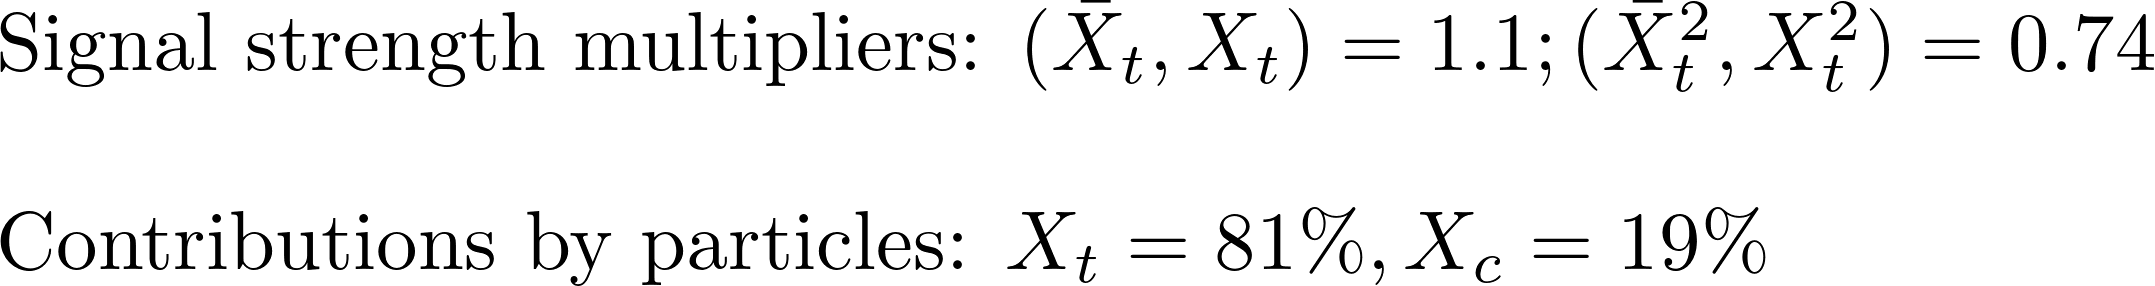
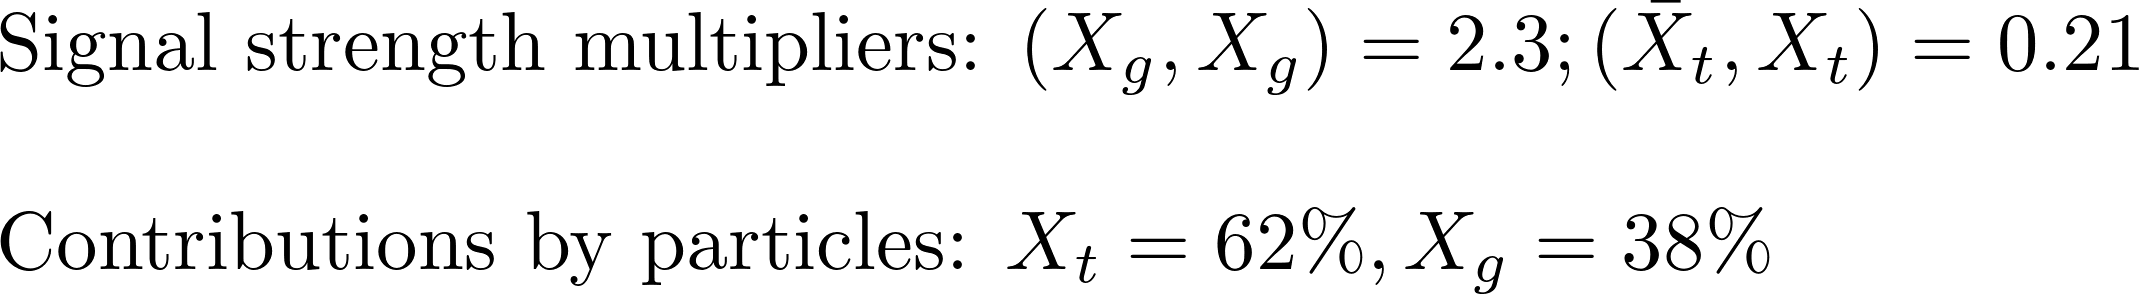
automated update by plotHiscore.py

Changed region(s): [[0.0, 0.0, 1.0, 0.3357], [0.0, 0.6993, 0.8331, 1.0], [0.0, 0.028, 0.0309, 0.0839]]

diff --git a/protomodels/latest/index.html b/protomodels/latest/index.html
@@ -1,32 +1,32 @@
 <html>
 <body>
 <center>
-<table><td><h1>Current best protomodel: K=6.46</h1><td><img height=60px src=https://smodels.github.io/pics/banner.png></table>
+<table><td><h1>Current best protomodel: K=6.18</h1><td><img height=60px src=https://smodels.github.io/pics/banner.png></table>
 </center>
-<b><a href=./hiscore.slha>ProtoModel</a> <a href=./pmodel.py>(dict)</a> produced with <a href=https://smodels.github.io/docs/Validation123fake25>database v1.2.3fake25</a>, combination strategy <a href=./matrix_aggressive.png>aggressive</a> in walker 111 step 21.</b> K plots for: <a href=./M1000022.png?5003279>X<sub>Z</sub><sup>1</sup></a>, <a href=./M1000004.png?5003279>X<sub>c</sub></a>, <a href=./M1000006.png?5003279>X<sub>t</sub></a>. HPD plots for: <a href=./llhd1000004.png?5003279>X<sub>c</sub></a>, <a href=./llhd1000006.png?5003279>X<sub>t</sub></a>. SSM plots for: <a href=./ssm_-2000006_2000006.png?5003279>(x&#772;<sub>t</sub><sup>2</sup>,X<sub>t</sub><sup>2</sup>)</a>, <a href=./ssm_-1000006_1000006.png?5003279>(x&#772;<sub>t</sub>,X<sub>t</sub>)</a><br>
+<b><a href=./hiscore.slha>ProtoModel</a> <a href=./pmodel.py>(dict)</a> produced with <a href=https://smodels.github.io/docs/Validation123fake23>database v1.2.3fake23</a>, combination strategy <a href=./matrix_aggressive.png>aggressive</a> in walker 139 step 82.</b> K plots for: <a href=./M1000022.png?5004096>X<sub>Z</sub><sup>1</sup></a>, <a href=./M1000021.png?5004096>X<sub>g</sub></a>, <a href=./M1000006.png?5004096>X<sub>t</sub></a>. HPD plots for: <a href=./llhd1000021.png?5004096>X<sub>g</sub></a>, <a href=./llhd1000006.png?5004096>X<sub>t</sub></a>. SSM plots for: <a href=./ssm_1000021_1000021.png?5004096>(X<sub>g</sub>,X<sub>g</sub>)</a>, <a href=./ssm_-1000006_1000006.png?5004096>(x&#772;<sub>t</sub>,X<sub>t</sub>)</a><br>
 <table width=80%>
 <tr><td>
-<br><b>35 predictions available. Highest r values are:</b><br><ul>
-<li><a href=http://cms-results.web.cern.ch/cms-results/public-results/publications/SUS-19-006/index.html>CMS-SUS-19-006</a>:T2tt r=1.05, r<sub>exp</sub>=N/A<br>
-<li><a href=https://atlas.web.cern.ch/Atlas/GROUPS/PHYSICS/PAPERS/SUSY-2016-15/>ATLAS-SUSY-2016-15</a>:T2tt r=0.83, r<sub>exp</sub>=N/A<br>
-<li><a href=http://cms-results.web.cern.ch/cms-results/public-results/publications/SUS-16-049/index.html>CMS-SUS-16-049</a>:T2tt r=0.76, r<sub>exp</sub>=N/A<br>
-<li><a href=http://cms-results.web.cern.ch/cms-results/public-results/publications/SUS-16-050/index.html>CMS-SUS-16-050</a>:T2tt r=0.76, r<sub>exp</sub>=N/A<br>
-<li><a href=http://cms-results.web.cern.ch/cms-results/public-results/publications/SUS-19-006/index.html>CMS-SUS-19-006</a>:T2tt r=0.67, r<sub>exp</sub>=N/A<br>
+<br><b>47 predictions available. Highest r values are:</b><br><ul>
+<li><a href=http://cms-results.web.cern.ch/cms-results/public-results/publications/SUS-16-050/index.html>CMS-SUS-16-050</a>:T2tt r=0.83, r<sub>exp</sub>=N/A<br>
+<li><a href=http://cms-results.web.cern.ch/cms-results/public-results/publications/SUS-19-006/index.html>CMS-SUS-19-006</a>:T2tt r=0.77, r<sub>exp</sub>=N/A<br>
+<li><a href=http://cms-results.web.cern.ch/cms-results/public-results/publications/SUS-19-006/index.html>CMS-SUS-19-006</a>:T1bbbb r=0.71, r<sub>exp</sub>=N/A<br>
+<li><a href=http://cms-results.web.cern.ch/cms-results/public-results/publications/SUS-16-049/index.html>CMS-SUS-16-049</a>:T2tt r=0.70, r<sub>exp</sub>=N/A<br>
+<li><a href=http://cms-results.web.cern.ch/cms-results/public-results/publications/SUS-16-050/index.html>CMS-SUS-16-050</a>:T5tttt r=0.63, r<sub>exp</sub>=N/A<br>
 </ul>
 <td><br><b>Contributions per analysis:</b><br>
 <ul>
-<li> <a href=http://cms-results.web.cern.ch/cms-results/public-results/publications/SUS-16-051/index.html>CMS-SUS-16-051</a>: 49%
-<li> <a href=https://atlas.web.cern.ch/Atlas/GROUPS/PHYSICS/PAPERS/SUSY-2016-16/>ATLAS-SUSY-2016-16</a>: 47%
-<li> <a href=>CMS-SUS-19-006</a>: 6%
-<li> <a href=https://atlas.web.cern.ch/Atlas/GROUPS/PHYSICS/CONFNOTES/ATLAS-CONF-2013-037/>ATLAS-CONF-2013-037</a>: 3%
-<li> <a href=>ATLAS-SUSY-2013-02</a>: 0%
-<li> <a href=>ATLAS-SUSY-2015-06</a>: -1%
-<li> <a href=https://twiki.cern.ch/twiki/bin/view/CMSPublic/PhysicsResultsSUS13012>CMS-SUS-13-012</a>: -4%
-<td><img width=600px src=./texdoc.png?1598003279>
-<br><font size=-1>Last updated: Fri Aug 21 11:47:59 2020</font>
+<li> <a href=https://atlas.web.cern.ch/Atlas/GROUPS/PHYSICS/PAPERS/SUSY-2016-16/>ATLAS-SUSY-2016-16</a>: 17%
+<li> <a href=https://atlas.web.cern.ch/Atlas/GROUPS/PHYSICS/CONFNOTES/ATLAS-CONF-2013-047/>ATLAS-CONF-2013-047</a>: 14%
+<li> <a href=http://cms-results.web.cern.ch/cms-results/public-results/publications/SUS-16-050/index.html>CMS-SUS-16-050</a>: 14%
+<li> <a href=https://twiki.cern.ch/twiki/bin/view/CMSPublic/PhysicsResultsSUS12028>CMS-SUS-12-028</a>: 14%
+<li> <a href=https://atlas.web.cern.ch/Atlas/GROUPS/PHYSICS/PAPERS/SUSY-2016-07/>ATLAS-SUSY-2016-07</a>: 14%
+<li> <a href=http://cms-results.web.cern.ch/cms-results/public-results/publications/SUS-16-051/index.html>CMS-SUS-16-051</a>: 14%
+<li> <a href=https://twiki.cern.ch/twiki/bin/view/CMSPublic/PhysicsResultsSUS13011>CMS-SUS-13-011</a>: 14%
+<td><img width=600px src=./texdoc.png?1598004096>
+<br><font size=-1>Last updated: Fri Aug 21 12:01:36 2020</font>
 </table><table style="width:80%">
-<td width=45%><img height=580px src=./ruler.png?1598003279><td width=55%><img height=380px src=./decays.png?1598003279>
-<font size=-3><iframe type="text/html" height="220px" width="100%s" frameborder="0" src="./rawnumbers.html?1598003279"></iframe></font>
+<td width=45%><img height=580px src=./ruler.png?1598004096><td width=55%><img height=380px src=./decays.png?1598004096>
+<font size=-3><iframe type="text/html" height="220px" width="100%s" frameborder="0" src="./rawnumbers.html?1598004096"></iframe></font>
 </table>
 </body>
 </html>

diff --git a/protomodels/latest/rawnumbers.html b/protomodels/latest/rawnumbers.html
@@ -1,9 +1,11 @@
 <table>
 <tr><th>Analysis Name</th><th>Type</th><th>Dataset</th><th>Observed</th><th>Expected</th><th>Approx &sigma;</th><th>Particles</th>
 </tr>
-<tr><td><a href=https://atlas.web.cern.ch/Atlas/GROUPS/PHYSICS/PAPERS/SUSY-2016-16/>ATLAS-SUSY-2016-16</a></td><td>em</td> <td>tN_med</td><td>54</td><td>36.3 +/- 6.6</td><td style="text-align:right">2.0 &sigma;</td><td style="text-align:right">X<sub>t</sub><sup>2</sup>, X<sub>t</sub></td></tr>
-<tr><td><a href=http://cms-results.web.cern.ch/cms-results/public-results/publications/SUS-16-049/index.html>CMS-SUS-16-049</a></td><td>ul</td> <td>-</td><td> 12.4 fb </td><td> 6.9 fb</td><td style="text-align:right">1.6 &sigma;</td><td style="text-align:right">X<sub>t</sub><sup>2</sup></td></tr>
-<tr><td><a href=http://cms-results.web.cern.ch/cms-results/public-results/publications/SUS-16-051/index.html>CMS-SUS-16-051</a></td><td>ul</td> <td>-</td><td> 25.4 fb </td><td> 14.0 fb</td><td style="text-align:right">1.6 &sigma;</td><td style="text-align:right">X<sub>t</sub></td></tr>
-<tr><td><a href=https://atlas.web.cern.ch/Atlas/GROUPS/PHYSICS/CONFNOTES/ATLAS-CONF-2013-037/>ATLAS-CONF-2013-037</a></td><td>em</td> <td>SRtN3</td><td>8</td><td>5 +/- 2</td><td style="text-align:right">1.0 &sigma;</td><td style="text-align:right">X<sub>t</sub><sup>2</sup>, X<sub>t</sub></td></tr>
-<tr><td><a href=https://twiki.cern.ch/twiki/bin/view/CMSPublic/PhysicsResultsSUS13012>CMS-SUS-13-012</a></td><td>em</td> <td>6NJet8_500HT800 ...</td><td>0</td><td>0.8 +/- 3.3</td><td style="text-align:right">-0.2 &sigma;</td><td style="text-align:right">X<sub>t</sub><sup>2</sup>, X<sub>t</sub></td></tr>
+<tr><td><a href=https://atlas.web.cern.ch/Atlas/GROUPS/PHYSICS/PAPERS/SUSY-2016-07/>ATLAS-SUSY-2016-07</a></td><td>em</td> <td>2j_Meff_1200</td><td>520</td><td>526 +/- 31</td><td style="text-align:right">-0.2 &sigma;</td><td style="text-align:right">X<sub>g</sub></td></tr>
+<tr><td><a href=https://atlas.web.cern.ch/Atlas/GROUPS/PHYSICS/PAPERS/SUSY-2016-16/>ATLAS-SUSY-2016-16</a></td><td>em</td> <td>tN_med</td><td>45</td><td>36.3 +/- 6.6</td><td style="text-align:right">1.0 &sigma;</td><td style="text-align:right">X<sub>t</sub></td></tr>
+<tr><td><a href=http://cms-results.web.cern.ch/cms-results/public-results/publications/SUS-16-050/index.html>CMS-SUS-16-050</a></td><td>ul</td> <td>-</td><td> 2.7 fb </td><td> 1.2 fb</td><td style="text-align:right">2.4 &sigma;</td><td style="text-align:right">X<sub>g</sub>, X<sub>t</sub></td></tr>
+<tr><td><a href=http://cms-results.web.cern.ch/cms-results/public-results/publications/SUS-16-051/index.html>CMS-SUS-16-051</a></td><td>ul</td> <td>-</td><td> 28.9 fb </td><td> 17.3 fb</td><td style="text-align:right">1.3 &sigma;</td><td style="text-align:right">X<sub>t</sub></td></tr>
+<tr><td><a href=https://atlas.web.cern.ch/Atlas/GROUPS/PHYSICS/CONFNOTES/ATLAS-CONF-2013-047/>ATLAS-CONF-2013-047</a></td><td>em</td> <td>E Loose</td><td>170</td><td>113 +/- 21</td><td style="text-align:right">2.4 &sigma;</td><td style="text-align:right">X<sub>g</sub>, X<sub>t</sub></td></tr>
+<tr><td><a href=https://twiki.cern.ch/twiki/bin/view/CMSPublic/PhysicsResultsSUS12028>CMS-SUS-12-028</a></td><td>ul</td> <td>-</td><td> 5.2 fb </td><td> 3.1 fb</td><td style="text-align:right">1.3 &sigma;</td><td style="text-align:right">X<sub>g</sub></td></tr>
+<tr><td><a href=https://twiki.cern.ch/twiki/bin/view/CMSPublic/PhysicsResultsSUS13011>CMS-SUS-13-011</a></td><td>em</td> <td>LM150</td><td>211</td><td>251 +/- 50</td><td style="text-align:right">-0.8 &sigma;</td><td style="text-align:right">X<sub>t</sub></td></tr>
 </table>

diff --git a/protomodels/latest/pmodel.py b/protomodels/latest/pmodel.py
@@ -1,1 +1,1 @@
-{'masses': {1000022: 459.904, 1000006: 919.13, 2000006: 971.858}, 'ssmultipliers': {(1000022, 1000022): 0.856, (1000006, 1000006): 1.117, (-1000006, 1000006): 1.117, (-1000006, -1000006): 1.117, (1000006, 1000022): 1.117, (-1000006, 1000022): 1.117, (2000006, 2000006): 0.739, (-2000006, 2000006): 0.739, (-2000006, -2000006): 0.739, (1000022, 2000006): 0.739, (-2000006, 1000022): 0.739, (1000006, 2000006): 0.861, (-2000006, 1000006): 0.861, (-1000006, 2000006): 0.861, (-2000006, -1000006): 0.861}, 'decays': {1000022: {}, 1000006: {1000022: 1.0}, 2000006: {1000022: 1.0}}, 'timestamp': 'Fri Aug 21 11:47:54 2020', 'Z': 3.2, 'K': 6.463, 'step': 21, 'codever': '1.0', 'dbver': '1.2.3fake25'}
+{'masses': {1000022: 221.962, 1000006: 723.115, 1000021: 1905.828}, 'ssmultipliers': {(1000022, 1000022): 0.833, (1000006, 1000006): 0.257, (-1000006, 1000006): 0.205, (-1000006, -1000006): 0.257, (1000006, 1000022): 0.257, (-1000006, 1000022): 0.257, (1000021, 1000021): 2.326, (1000021, 1000022): 2.326, (1000006, 1000021): 2.326, (-1000006, 1000021): 2.326}, 'decays': {1000022: {}, 1000006: {1000022: 1.0}, 1000021: {(1000006, 6): 0.649, (1000022, 5): 0.195, (1000022, 21): 0.156}}, 'timestamp': 'Fri Aug 21 12:01:29 2020', 'Z': 3.305, 'K': 6.176, 'step': 82, 'codever': '1.0', 'dbver': '1.2.3fake23'}
